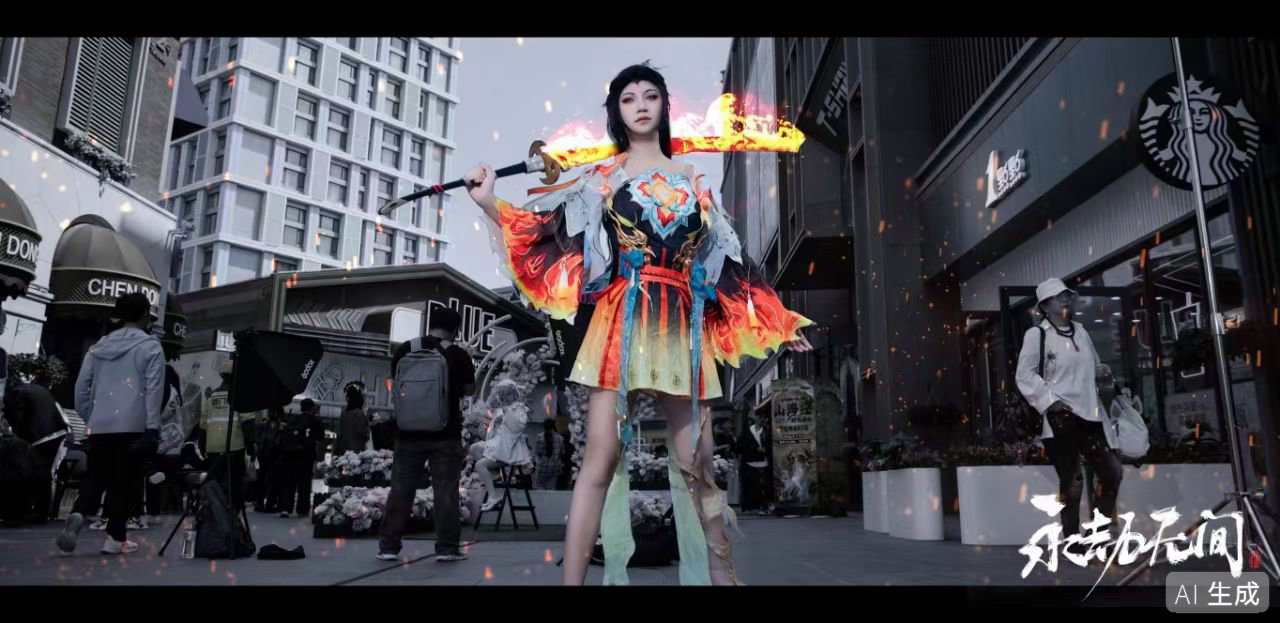
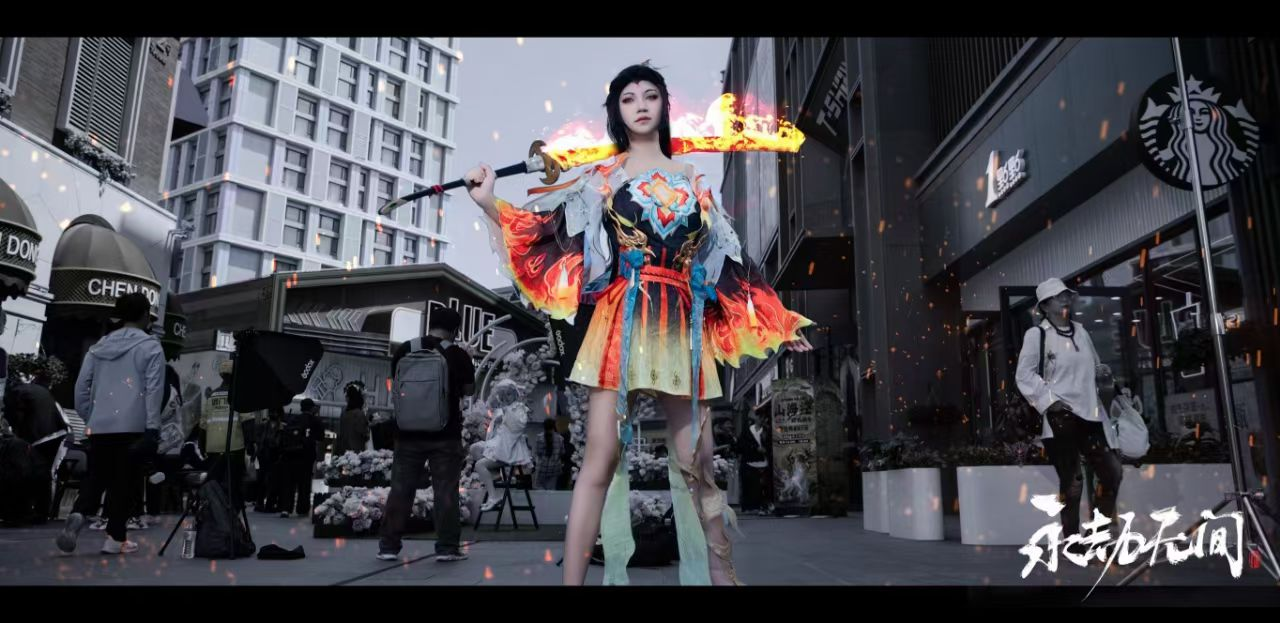
Add files via upload

Changed region(s): [[0.9062, 0.9149, 1.0, 1.0]]

diff --git a/index.html b/index.html
@@ -365,6 +365,24 @@ img{max-width:100%}
   padding:3px 12px;border-radius:999px;
 }
 
+/* 拍摄声明（与板块同源的低调渐变卡） */
+.shoot-note{
+  display:flex;align-items:center;gap:13px;
+  margin-top:16px;padding:14px 18px;border-radius:16px;
+  background:
+    radial-gradient(280px 110px at 10% 50%, rgba(255,168,212,.12), transparent 70%),
+    linear-gradient(rgba(30,28,64,.88),rgba(26,24,56,.9)) padding-box,
+    linear-gradient(120deg,rgba(156,153,255,.5),rgba(255,168,212,.5),rgba(156,153,255,.5)) border-box;
+  border:1.5px solid transparent;
+}
+.shoot-note .cam{
+  flex:none;font-size:20px;
+  filter:drop-shadow(0 0 6px rgba(255,168,212,.6));
+  opacity:.9;
+}
+.shoot-note .txt{font-size:12.5px;color:var(--sub);letter-spacing:1.2px;line-height:1.8}
+.shoot-note .txt b{color:#ffd9ec;font-weight:700}
+
 /* 社交条目 */
 .social-list{display:grid;gap:11px}
 .social-item{
@@ -801,6 +819,10 @@ img{max-width:100%}
         <div class="car-cap" id="carCap"></div>
         <div class="car-dots" id="carDots"></div>
       </div>
+        <div class="shoot-note">
+          <span class="cam">📷</span>
+          <span class="txt">以上均为<b>真实出C实拍</b>、非AI生成；若平台仍显示AI相关角标，系传输工具误标的元数据所致，与照片内容无关</span>
+        </div>
     </div>
   </section>
 
